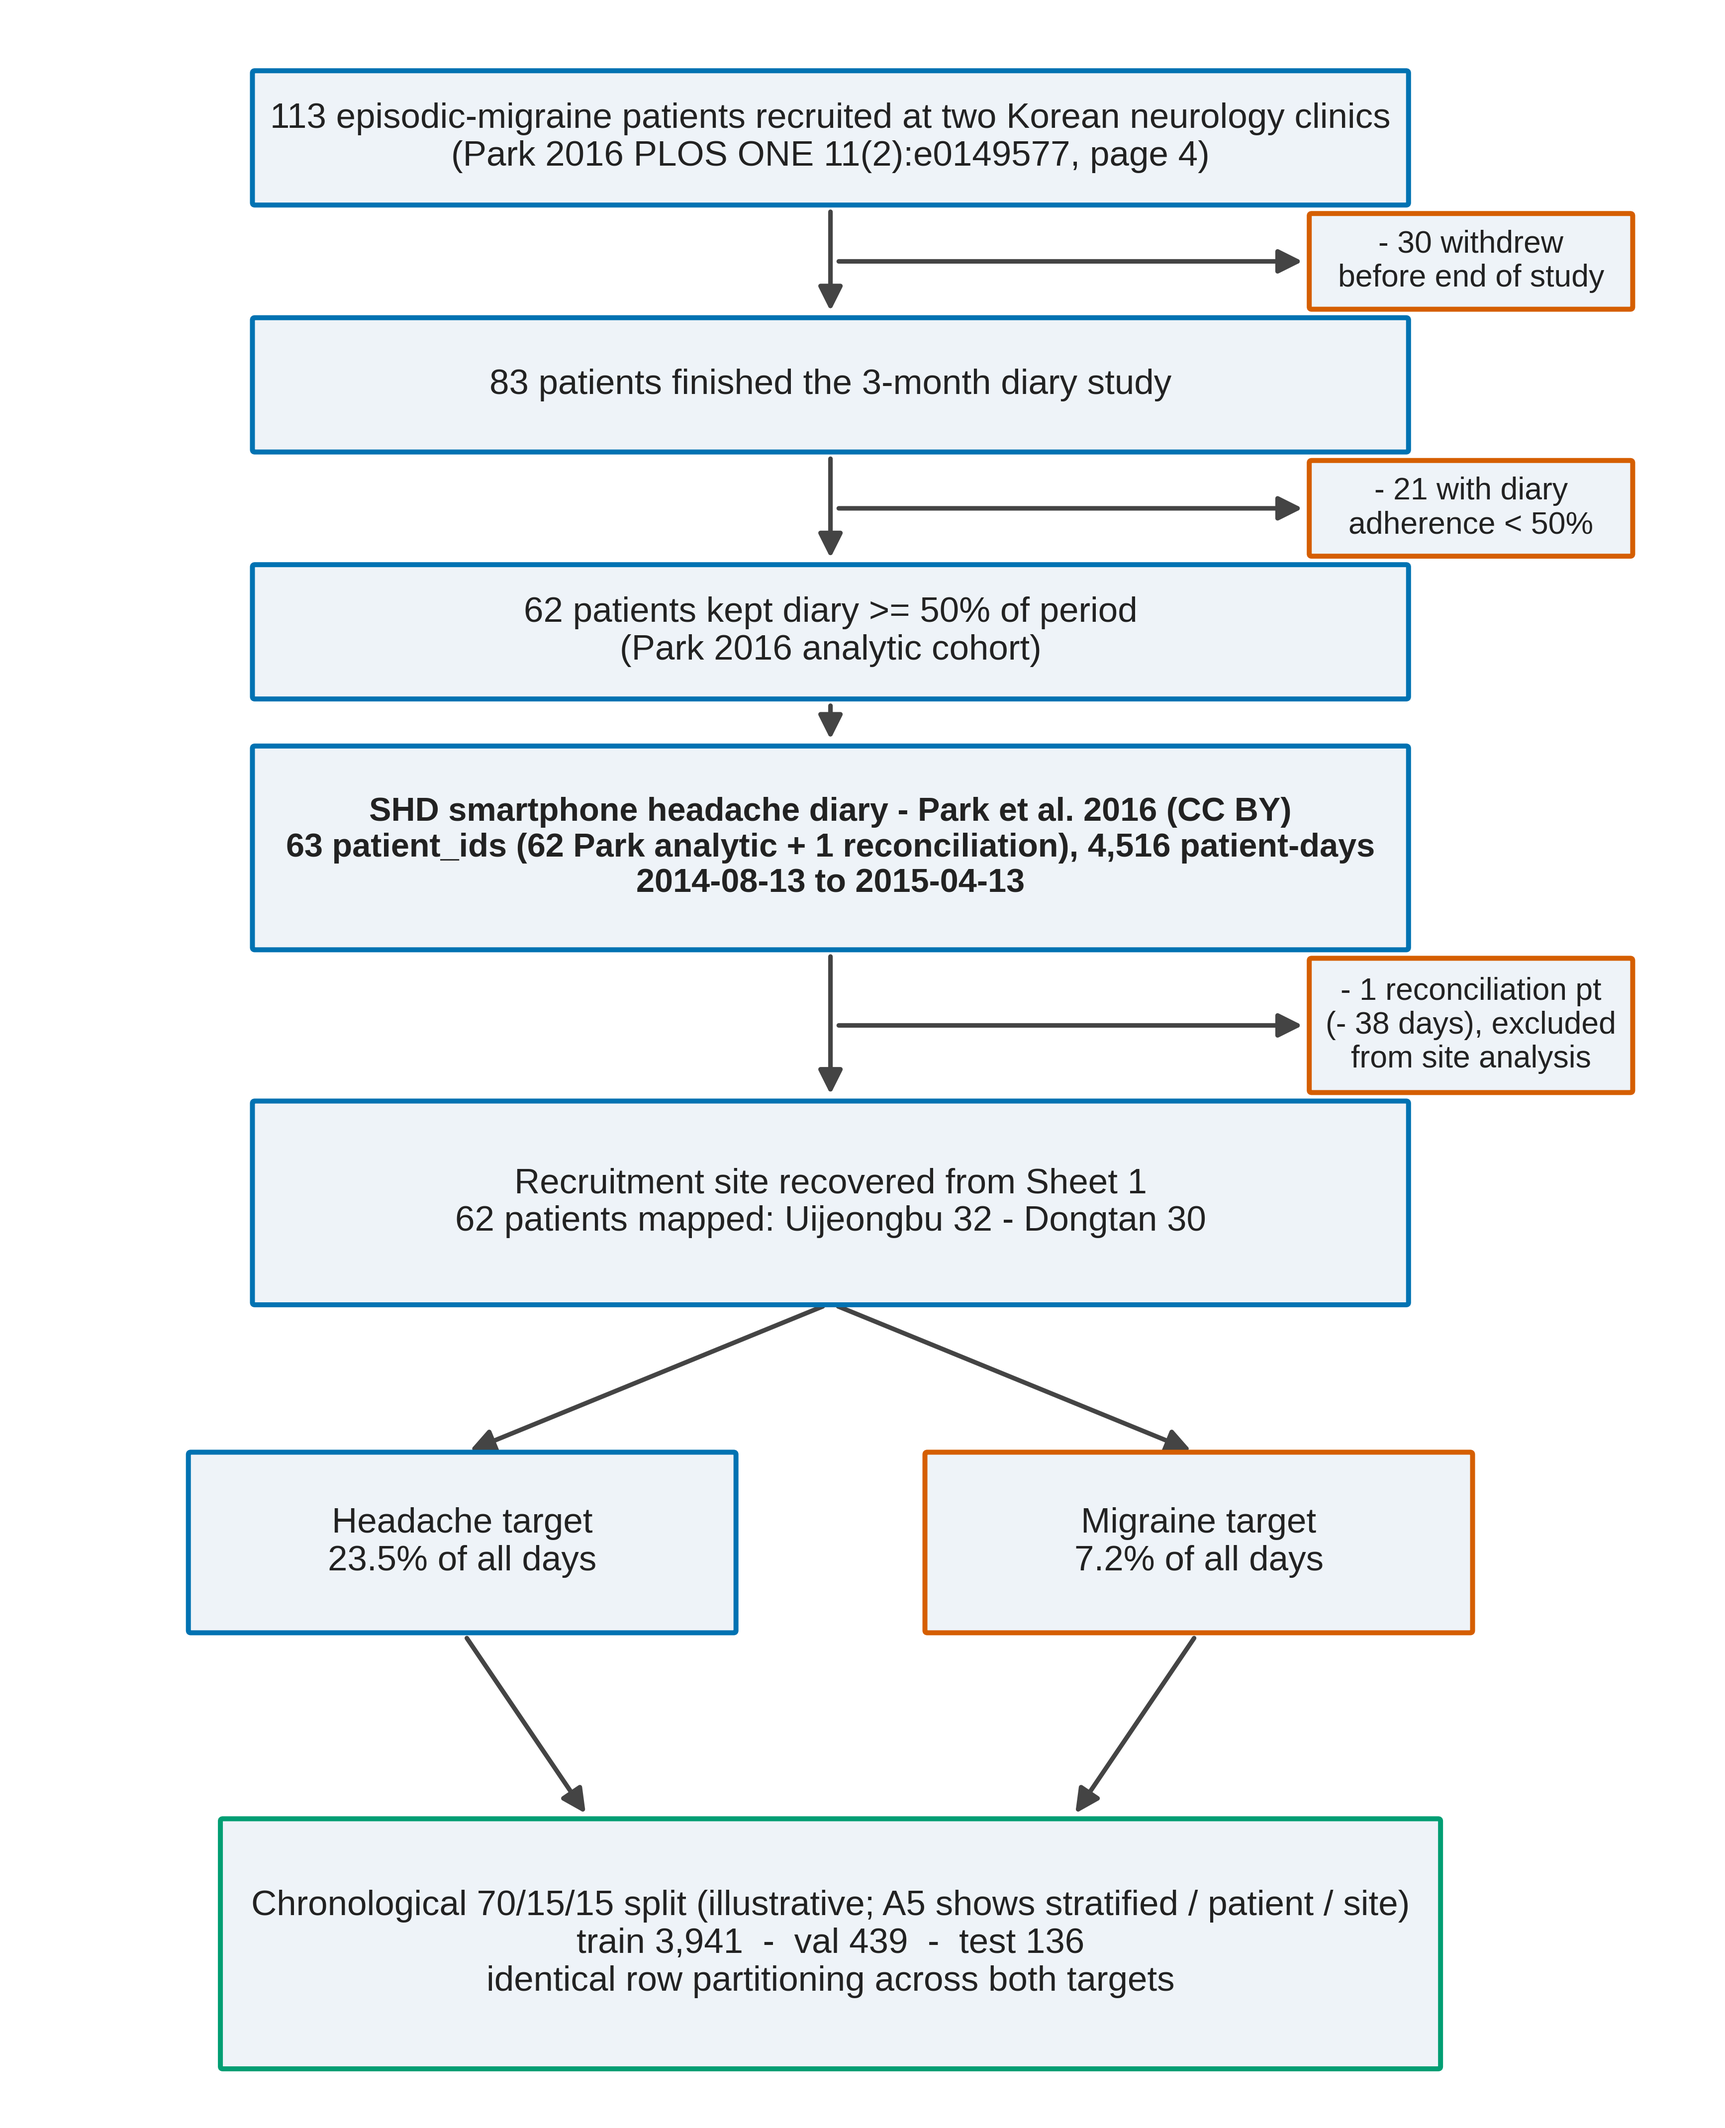
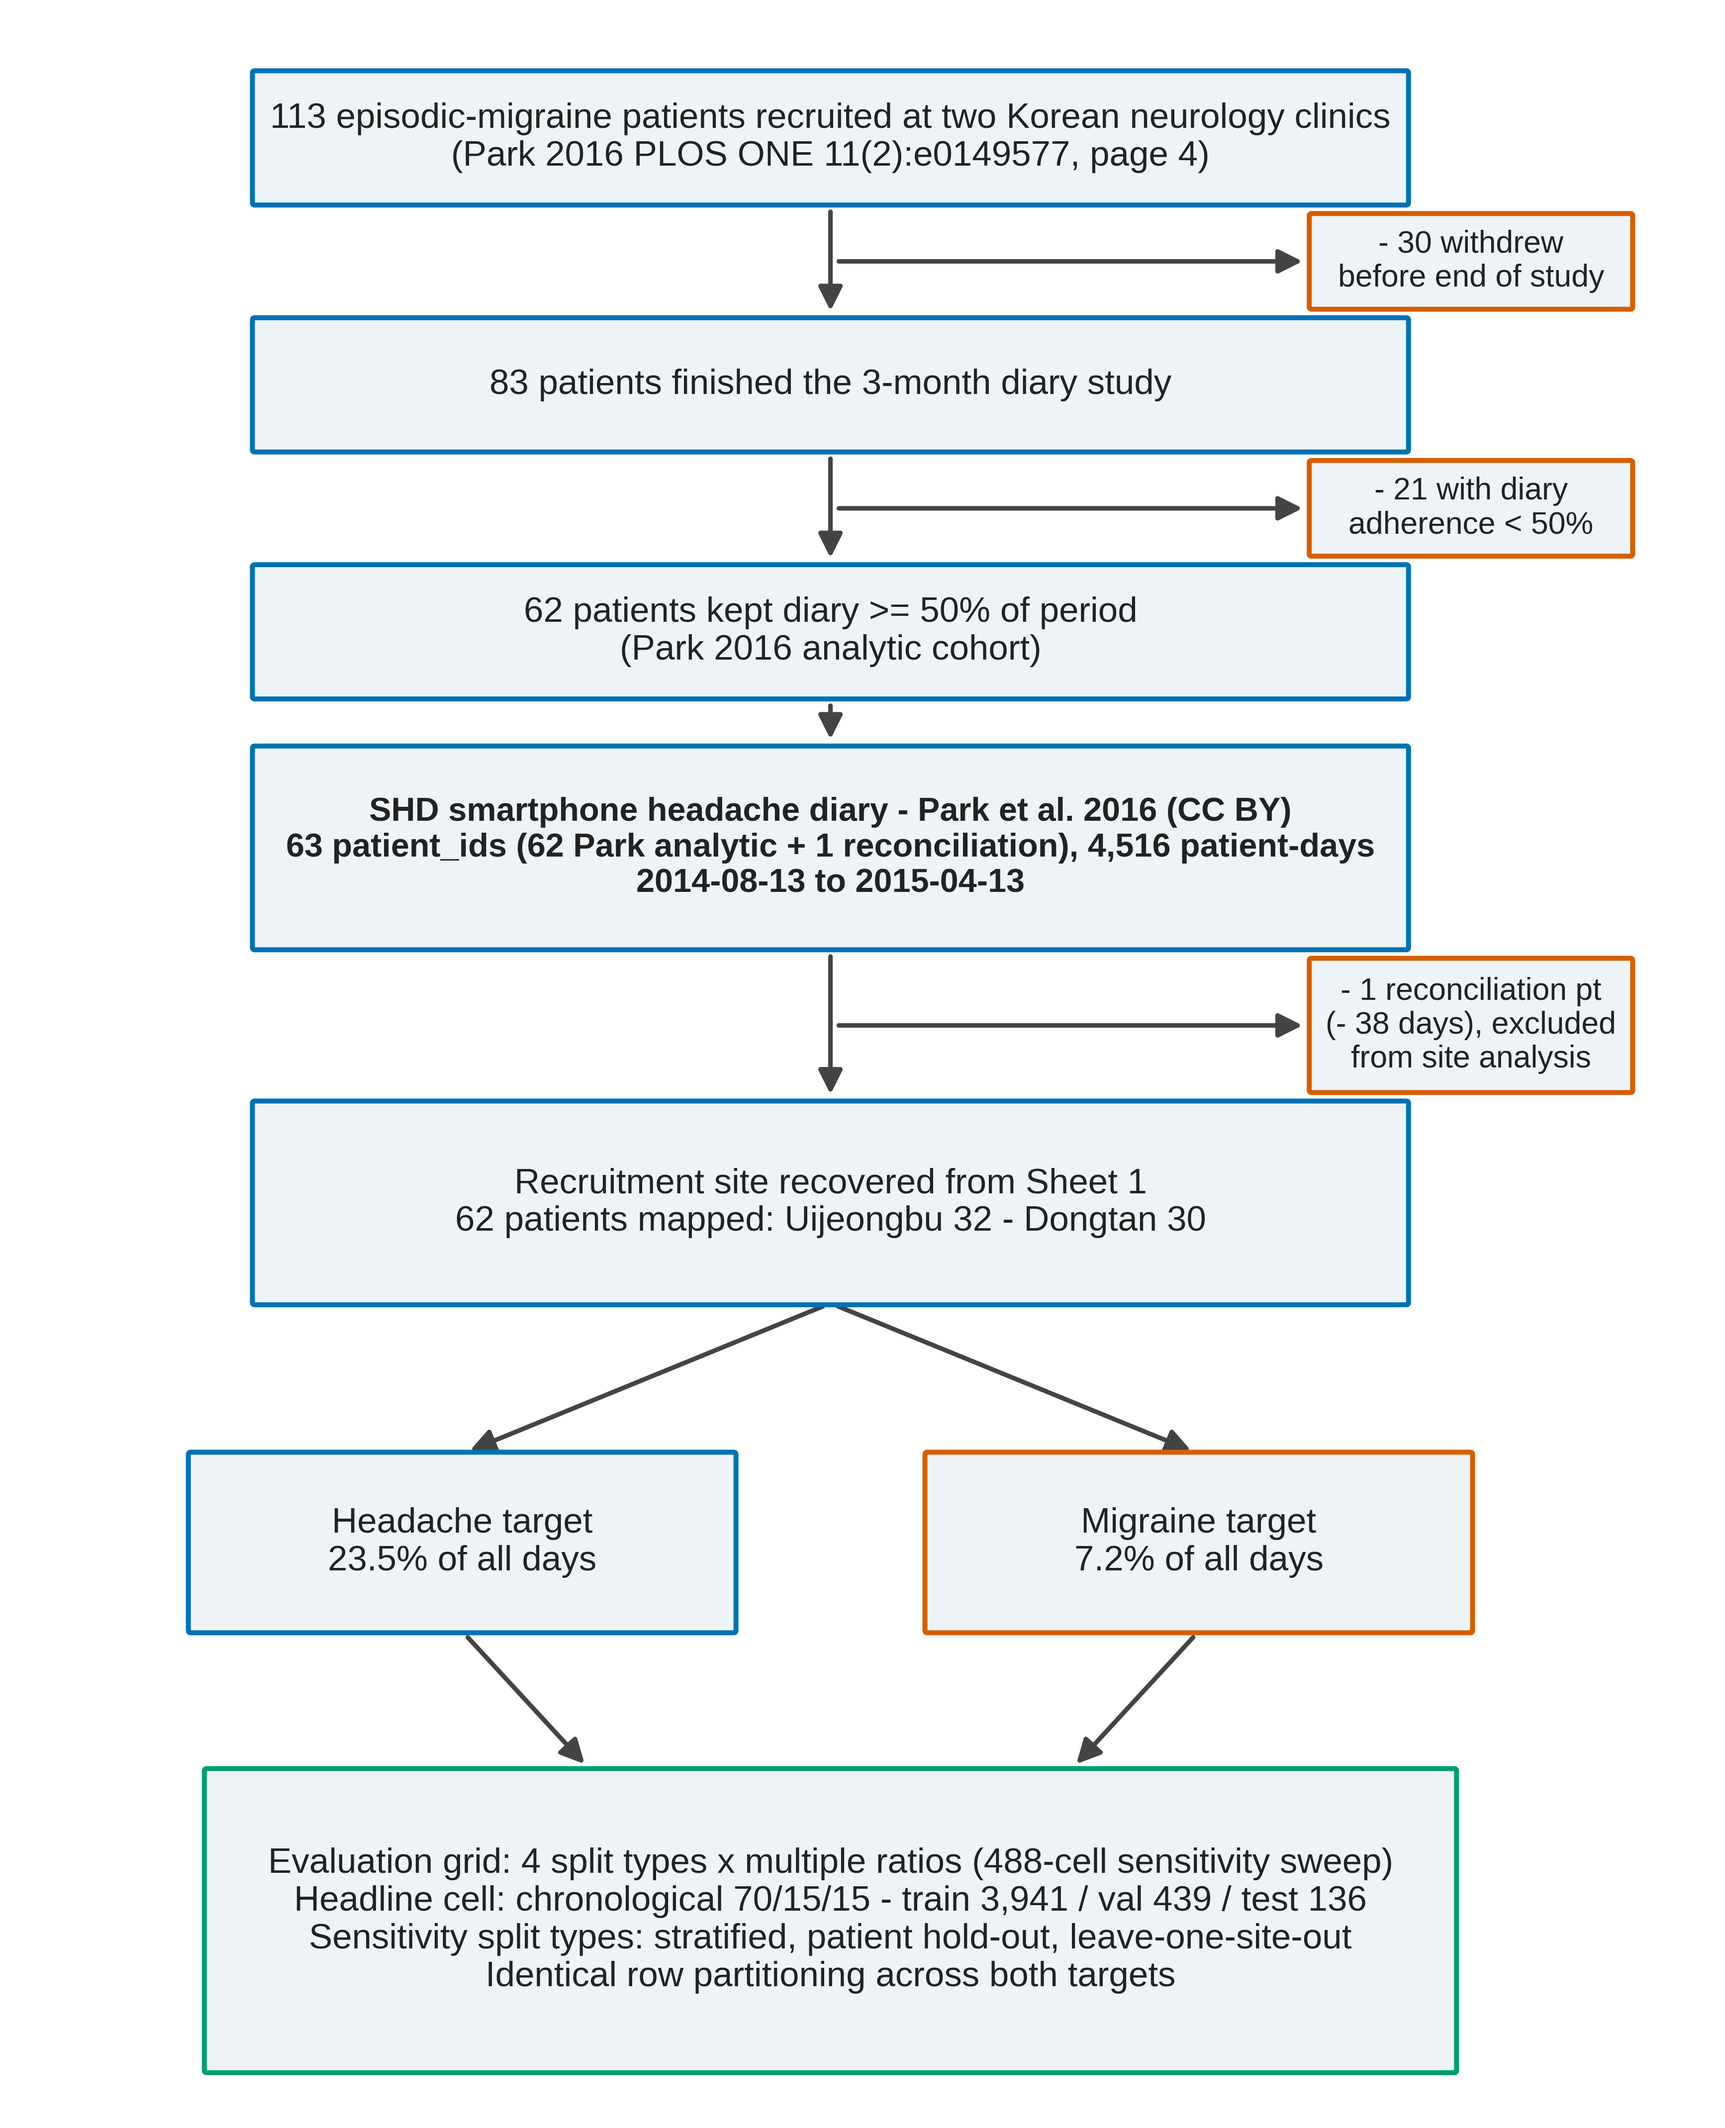
expanded cohort flow output box to name all four split types

Changed region(s): [[0.0934, 0.7772, 0.872, 0.9638], [0.1246, 0.9638, 0.8408, 0.9949]]

diff --git a/docs/methodAndResults_diagramCreatorScripts/fig_a2_cohort_flow.py b/docs/methodAndResults_diagramCreatorScripts/fig_a2_cohort_flow.py
@@ -75,10 +75,12 @@ def main():
                fc=S.PALE_FILL, ec=S.TARGET["headache"])
     bmg = S.box(ax, (7.3, 4.6), 3.4, 1.15, f"Migraine target\n{mig_r:.1%} of all days",
                 fc=S.PALE_FILL, ec=S.TARGET["migraine"])
-    b4 = S.box(ax, (5, 2.0), 7.6, 1.6,
-               f"Chronological 70/15/15 split (illustrative; A5 shows stratified / patient / site)\n"
-               f"train {sizes['train']:,}  -  val {sizes['val']:,}  -  test {sizes['test']:,}\n"
-               f"identical row partitioning across both targets",
+    b4 = S.box(ax, (5, 2.15), 7.8, 1.95,
+               f"Evaluation grid: 4 split types x multiple ratios (488-cell sensitivity sweep)\n"
+               f"Headline cell: chronological 70/15/15 - "
+               f"train {sizes['train']:,} / val {sizes['val']:,} / test {sizes['test']:,}\n"
+               f"Sensitivity split types: stratified, patient hold-out, leave-one-site-out\n"
+               f"Identical row partitioning across both targets",
                role="output")
     # Upstream-funnel arrows
     S.arrow(ax, (bup1[0], bup1[1] - bup1[3] / 2), (bup2[0], bup2[1] + bup2[3] / 2))

diff --git a/docs/body.md b/docs/body.md
@@ -209,7 +209,7 @@ Figures are numbered in order of first appearance in the body. Each is rendered 
 
 | Number | Caption (bold lead + body) | Source script |
 |---|---|---|
-| Figure 1 | **TRIPOD-style cohort flow diagram.** Park 2016 enrolment funnel: 113 recruited → 30 withdrew → 21 excluded for diary adherence below 50% → 62 patients analysed (4,516 patient-days at 7.2% pooled migraine positive rate). | `fig_a2_cohort_flow.py` |
+| Figure 1 | **TRIPOD-style cohort flow diagram.** Park 2016 enrolment funnel: 113 recruited → 30 withdrew → 21 excluded for diary adherence below 50% → 62 patients analysed (4,516 patient-days at 7.2% pooled migraine positive rate); the processed pipeline feeds a 488-cell sensitivity sweep across 4 split types (chronological, stratified, patient hold-out, leave-one-site-out) and multiple ratios, with chronological 70/15/15 named as the headline cell. | `fig_a2_cohort_flow.py` |
 | Figure 2 | **Flexible loess calibration smooths at the two headline cells.** Per-architecture loess smooths with patient-cluster bootstrap 95% bands; per-architecture predicted-probability rug at the bottom of each panel marks data-supported versus sparse-data-extrapolated regions. | `fig_c4_calibration_flexible.py` |
 | Figure 3 | **Per-patient AUROC distribution at the two non-hyperparameter-tuned 70/30 chronological cells.** Sorted by patient against the pooled AUROC and Hanley-McNeil within-person C reference lines. Headache TabPFN-v2.6 estimable on 57 of 63 patients; migraine TabPFN-v2.5-finetuned estimable on 19 of 63 patients at the five-positive floor. | `fig_c2_within_person.py` |
 | Figure 4 | **Within-person calibration at the two headline cells.** Per-quartile pooled observed positive rate versus per-quartile pooled predicted probability; runs roughly flat across Q1-Q4 in both targets while predicted-probability spans wider, illustrating the near-chance within-person C in calibration form. | `fig_c5_within_person_calibration.py` |
